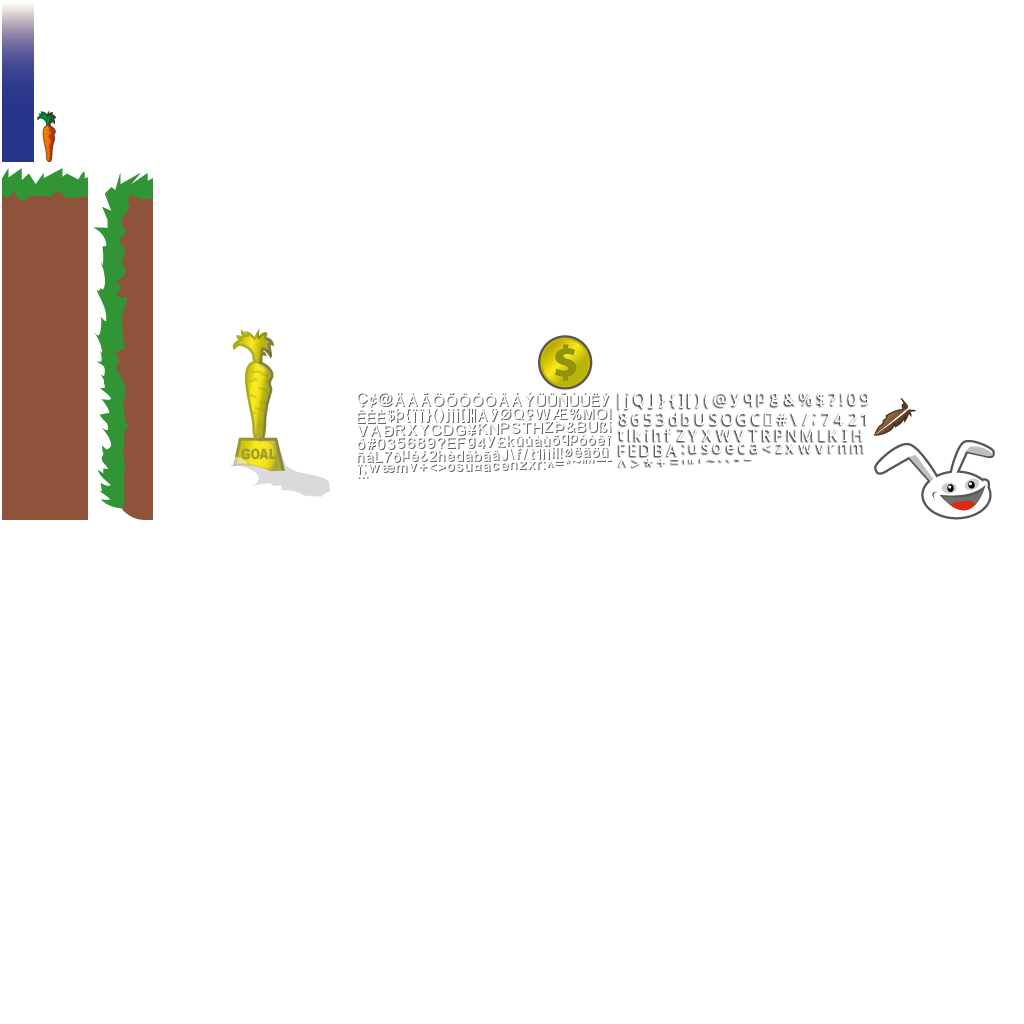
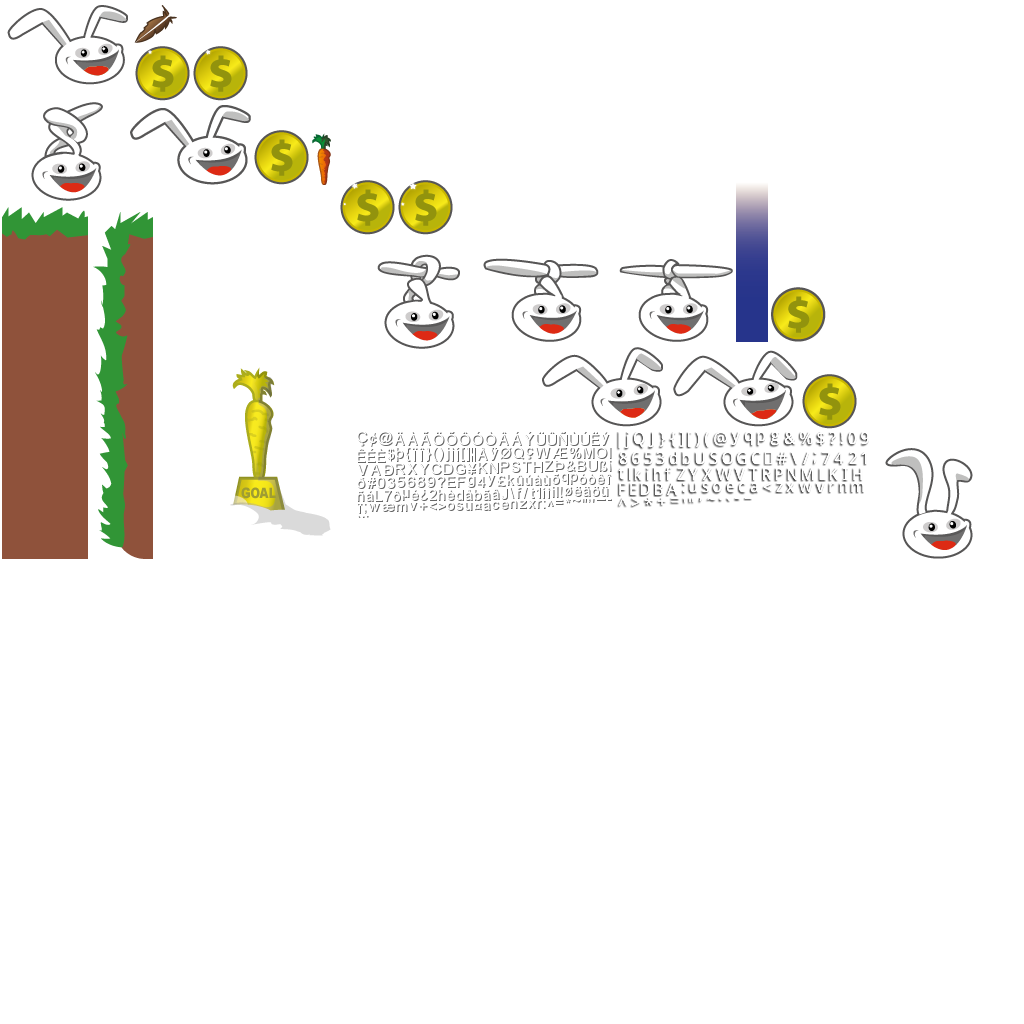
Assignment #12
Changed: Assets, AbstractGameObject, BunnyHead, GoldCoin, MenuScreen, and animation assets

Changed region(s): [[0.2188, 0.1562, 0.9688, 0.5625], [0.0, 0.0, 0.4688, 0.5625]]

diff --git a/core/src/com/rebok/gdx/game/screens/MenuScreen.java b/core/src/com/rebok/gdx/game/screens/MenuScreen.java
@@ -1,11 +1,17 @@
 package com.rebok.gdx.game.screens;
 
 import com.badlogic.gdx.Game;
+
+import static com.badlogic.gdx.scenes.scene2d.actions.Actions.*;
+
 import com.badlogic.gdx.Gdx;
 import com.badlogic.gdx.graphics.Color;
 import com.badlogic.gdx.graphics.GL20;
 import com.badlogic.gdx.graphics.g2d.TextureAtlas;
+import com.badlogic.gdx.math.Interpolation;
 import com.badlogic.gdx.scenes.scene2d.Stage;
+import com.badlogic.gdx.scenes.scene2d.Touchable;
+import com.badlogic.gdx.scenes.scene2d.actions.SequenceAction;
 import com.badlogic.gdx.scenes.scene2d.ui.Button;
 import com.badlogic.gdx.scenes.scene2d.ui.CheckBox;
 import com.badlogic.gdx.scenes.scene2d.ui.Image;
@@ -143,9 +149,8 @@ public class MenuScreen extends AbstractGameScreen {
 	 * When cancel is clicked
 	 */
 	private void onCancelClicked() {
-		btnMenuPlay.setVisible(true);
-		btnMenuOptions.setVisible(true);
-		winOptions.setVisible(false);
+		showMenuButtons(true);
+		showOptionsWindow(false, true);
 		AudioManager.instance.onSettingsUpdated();
 	}
 	
@@ -327,6 +332,45 @@ public class MenuScreen extends AbstractGameScreen {
 	@Override public void pause () { }
 	
 	/**
+	 * For animating the menu buttons
+	 * @param visible
+	 */
+	private void showMenuButtons (boolean visible) {
+		float moveDuration = 1.0f;
+		Interpolation moveEasing = Interpolation.swing;
+		float delayOptionsButton = 0.25f;
+		float moveX = 300 * (visible ? -1 : 1);
+		float moveY = 0 * (visible ? -1 : 1);
+		final Touchable touchEnabled = visible ? Touchable.enabled : Touchable.disabled;
+		btnMenuPlay.addAction(moveBy(moveX, moveY, moveDuration, moveEasing));
+		btnMenuOptions.addAction(sequence(delay(delayOptionsButton),  
+								moveBy(moveX, moveY, moveDuration, moveEasing)));
+		SequenceAction seq = sequence();
+		if (visible)
+			seq.addAction(delay(delayOptionsButton + moveDuration));
+		seq.addAction(run(new Runnable() {
+			
+		public void run () {
+			btnMenuPlay.setTouchable(touchEnabled);
+		    btnMenuOptions.setTouchable(touchEnabled);
+		}
+		}));
+		stage.addAction(seq);
+	}
+	
+	/**
+	 * For animating the options window
+	 * @param visible
+	 * @param animated
+	 */
+	private void showOptionsWindow (boolean visible,boolean animated) {
+			float alphaTo = visible ? 0.8f : 0.0f;
+			float duration = animated ? 1.0f : 0.0f;
+			Touchable touchEnabled = visible ? Touchable.enabled : Touchable.disabled;
+			winOptions.addAction(sequence(touchable(touchEnabled),alpha(alphaTo, duration)));
+	}
+	
+	/**
 	 * The background layer of our screen
 	 * @return
 	 */
@@ -347,10 +391,26 @@ public class MenuScreen extends AbstractGameScreen {
 	    // + Coins
 	    imgCoins = new Image(skinCanyonBunny, "coins");
 	    layer.addActor(imgCoins);
+	    imgCoins.setOrigin(imgCoins.getWidth() / 2, 
+	    	    imgCoins.getHeight() / 2);
+	    	  	imgCoins.addAction(sequence( 
+	    	    moveTo(135, -20), 
+	    	    scaleTo(0, 0), 
+	    	    fadeOut(0), 
+	    	    delay(2.5f),
+	    	    parallel(moveBy(0, 100, 0.5f, Interpolation.swingOut),  
+	    	    		scaleTo(1.0f, 1.0f, 0.25f, Interpolation.linear),  
+	    	    		alpha(1.0f, 0.5f))));
 	    imgCoins.setPosition(135, 80);
 	    // + Bunny
 	    imgBunny = new Image(skinCanyonBunny, "bunny");
 	    layer.addActor(imgBunny);
+	    imgBunny.addAction(sequence(
+	    moveTo(655, 510),  
+	    delay(4.0f),  
+	    moveBy(-70, -100, 0.5f, Interpolation.fade),  
+	    moveBy(-100, -50, 0.5f, Interpolation.fade),  
+	    moveBy(-150, -300, 1.0f, Interpolation.elasticIn)));
 	    imgBunny.setPosition(355, 40);
 	    return layer;
 	}
@@ -424,6 +484,8 @@ public class MenuScreen extends AbstractGameScreen {
 		// Make options window slightly transparent
 		winOptions.setColor(1, 1, 1, 0.8f);
 		// Hide options window by default
+		showOptionsWindow(false, false);
+		// Hide options window by default
 		winOptions.setVisible(false);
 		if (debugEnabled) winOptions.debug();
 		// Let TableLayout recalculate widget sizes and positions
@@ -445,8 +507,7 @@ public class MenuScreen extends AbstractGameScreen {
 	 */
 	private void onOptionsClicked () {
 		loadSettings();
-		btnMenuPlay.setVisible(false);
-		btnMenuOptions.setVisible(false);
-		winOptions.setVisible(true);
+		showMenuButtons(false);
+		showOptionsWindow(true, true);
 	}
 }

diff --git a/core/src/com/rebok/gdx/game/objects/BunnyHead.java b/core/src/com/rebok/gdx/game/objects/BunnyHead.java
@@ -1,6 +1,7 @@
 package com.rebok.gdx.game.objects;
 
 import com.badlogic.gdx.Gdx;
+import com.badlogic.gdx.graphics.g2d.Animation;
 import com.badlogic.gdx.graphics.g2d.ParticleEffect;
 import com.badlogic.gdx.graphics.g2d.SpriteBatch;
 import com.rebok.gdx.game.util.CharacterSkin;
@@ -30,6 +31,11 @@ public class BunnyHead extends AbstractGameObject {
 	public float timeLeftFeatherPowerup;
 	public ParticleEffect dustParticles = new ParticleEffect(); //bunnys stop effect
 	
+	private Animation animNormal;			//Animation stuff
+	private Animation animCopterTransform;
+	private Animation animCopterTransformBack;
+	private Animation animCopterRotate;
+	
 	public BunnyHead () {
 	    init();
 	}
@@ -39,7 +45,13 @@ public class BunnyHead extends AbstractGameObject {
 	 */
 	public void init () {
 		dimension.set(1, 1);
-		regHead = Assets.instance.bunny.head;
+		
+		animNormal = Assets.instance.bunny.animNormal;
+		animCopterTransform = Assets.instance.bunny.animCopterTransform;
+		animCopterTransformBack = Assets.instance.bunny.animCopterTransformBack;
+		animCopterRotate = Assets.instance.bunny.animCopterRotate;
+		setAnimation(animNormal);
+
 		// Center image on game object
 		origin.set(dimension.x / 2, dimension.y / 2);
 		// Bounding box for collision detection
@@ -124,14 +136,39 @@ public class BunnyHead extends AbstractGameObject {
 			viewDirection = velocity.x < 0 ? VIEW_DIRECTION.LEFT : VIEW_DIRECTION.RIGHT;
 		}
 		if (timeLeftFeatherPowerup > 0) {
+		    if (animation == animCopterTransformBack) {
+		        // Restart "Transform" animation if another feather power-up
+		        // was picked up during "TransformBack" animation. Otherwise,
+		        // the "TransformBack" animation would be stuck while the
+		        // power-up is still active.
+		        setAnimation(animCopterTransform);
+		    }
 			timeLeftFeatherPowerup -= deltaTime;
 			if (timeLeftFeatherPowerup < 0) {
 				// disable power-up
 				timeLeftFeatherPowerup = 0;
 				setFeatherPowerup(false);
+				setAnimation(animCopterTransformBack);
 			}
 		}
 		dustParticles.update(deltaTime);
+		// Change animation state according to feather power-up
+		if (hasFeatherPowerup) {
+			if (animation == animNormal) {
+				setAnimation(animCopterTransform);
+			} else if (animation == animCopterTransform) {
+				if (animation.isAnimationFinished(stateTime))
+					setAnimation(animCopterRotate);
+			}
+		} else {
+			if (animation == animCopterRotate) {
+				if (animation.isAnimationFinished(stateTime))
+					setAnimation(animCopterTransformBack);
+			} else if (animation == animCopterTransformBack) {
+				if (animation.isAnimationFinished(stateTime))
+					setAnimation(animNormal);
+			}
+		}
 	}
 	
 	/**
@@ -187,14 +224,21 @@ public class BunnyHead extends AbstractGameObject {
 		// Apply Skin Color
 		batch.setColor(CharacterSkin.values()[GamePreferences.instance.charSkin].getColor());
 		  
+		float dimCorrectionX = 0;
+		float dimCorrectionY = 0;
+		if (animation != animNormal) {
+		  dimCorrectionX = 0.05f;
+		  dimCorrectionY = 0.2f;
+		}
 		// Set special color when game object has a feather power-up
 		if (hasFeatherPowerup) {
 			batch.setColor(1.0f, 0.8f, 0.0f, 1.0f);
 		}
 		// Draw image
-		reg = regHead;
+		reg = animation.getKeyFrame(stateTime, true);
 		batch.draw(reg.getTexture(), position.x, position.y, origin.x,  
-					origin.y, dimension.x, dimension.y, scale.x, scale.y, rotation,  
+					origin.y, dimension.x + dimCorrectionX,  
+					dimension.y + dimCorrectionY, scale.x, scale.y, rotation,  
 					reg.getRegionX(), reg.getRegionY(), reg.getRegionWidth(),  
 					reg.getRegionHeight(), viewDirection == VIEW_DIRECTION.LEFT, false);
 		// Reset color to white

diff --git a/core/src/com/rebok/gdx/game/Assets.java b/core/src/com/rebok/gdx/game/Assets.java
@@ -6,8 +6,10 @@ import com.badlogic.gdx.assets.AssetErrorListener;
 import com.badlogic.gdx.assets.AssetManager;
 import com.badlogic.gdx.audio.Music;
 import com.badlogic.gdx.audio.Sound;
+import com.badlogic.gdx.graphics.g2d.Animation;
 import com.badlogic.gdx.graphics.g2d.BitmapFont;
 import com.badlogic.gdx.graphics.g2d.TextureAtlas;
+import com.badlogic.gdx.utils.Array;
 import com.badlogic.gdx.utils.Disposable;
 import com.rebok.gdx.game.util.Constants;
 import com.badlogic.gdx.graphics.g2d.TextureAtlas.AtlasRegion;
@@ -115,6 +117,10 @@ public class Assets implements Disposable, AssetErrorListener {
 	 */
 	public class AssetBunny {
 	    public final AtlasRegion head; //head asset
+	    public final Animation animNormal; 			//animation stuff
+	    public final Animation animCopterTransform;
+	    public final Animation animCopterTransformBack;
+	    public final Animation animCopterRotate;
 	    
 	    /**
 	     * Constructor for the bunny head
@@ -122,6 +128,22 @@ public class Assets implements Disposable, AssetErrorListener {
 	     */
 	    public AssetBunny (TextureAtlas atlas) {
 	        head = atlas.findRegion("bunny_head");
+	        Array<AtlasRegion> regions = null;
+	        AtlasRegion region = null;
+	        // Animation: Bunny Normal
+	        regions = atlas.findRegions("anim_bunny_normal");
+	        animNormal = new Animation(1.0f / 10.0f, regions, Animation.PlayMode.LOOP_PINGPONG);
+	        // Animation: Bunny Copter - knot ears
+	        regions = atlas.findRegions("anim_bunny_copter");
+	        animCopterTransform = new Animation(1.0f / 10.0f, regions);
+	        // Animation: Bunny Copter - unknot ears
+	        regions = atlas.findRegions("anim_bunny_copter");
+	        animCopterTransformBack = new Animation(1.0f / 10.0f, regions, Animation.PlayMode.REVERSED);
+	        // Animation: Bunny Copter - rotate ears
+	        regions = new Array<AtlasRegion>();
+	        regions.add(atlas.findRegion("anim_bunny_copter", 4));
+	        regions.add(atlas.findRegion("anim_bunny_copter", 5));
+	        animCopterRotate = new Animation(1.0f / 15.0f, regions);
 	    }
 	}
 	
@@ -151,6 +173,7 @@ public class Assets implements Disposable, AssetErrorListener {
 	 */
 	public class AssetGoldCoin {
 	    public final AtlasRegion goldCoin; //gold coin
+	    public final Animation animGoldCoin; //for animating the gold coin
 	    
 	    /**
 	     * Constructor for the coin
@@ -158,6 +181,12 @@ public class Assets implements Disposable, AssetErrorListener {
 	     */
 	    public AssetGoldCoin (TextureAtlas atlas) {
 	        goldCoin = atlas.findRegion("item_gold_coin");
+	        // Animation: Gold Coin
+	        Array<AtlasRegion> regions = atlas.findRegions("anim_gold_coin");
+	        AtlasRegion region = regions.first();
+	        for (int i = 0; i < 10; i++)
+	        	regions.insert(0, region);
+	        animGoldCoin = new Animation(1.0f / 20.0f, regions, Animation.PlayMode.LOOP_PINGPONG);
 	    }
 	}
 	

diff --git a/core/src/com/rebok/gdx/game/objects/GoldCoin.java b/core/src/com/rebok/gdx/game/objects/GoldCoin.java
@@ -2,6 +2,7 @@ package com.rebok.gdx.game.objects;
 
 import com.badlogic.gdx.graphics.g2d.SpriteBatch;
 import com.badlogic.gdx.graphics.g2d.TextureRegion;
+import com.badlogic.gdx.math.MathUtils;
 import com.rebok.gdx.game.Assets;
 
 /**
@@ -22,7 +23,10 @@ public class GoldCoin extends AbstractGameObject {
 	 */
 	private void init () {
 	    dimension.set(0.5f, 0.5f);
-	    regGoldCoin = Assets.instance.goldCoin.goldCoin;
+	    
+	    setAnimation(Assets.instance.goldCoin.animGoldCoin);
+	    stateTime = MathUtils.random(0.0f, 1.0f);
+	    
 	    // Set bounding box for collision detection
 	    bounds.set(0, 0, dimension.x, dimension.y);
 	    collected = false;
@@ -33,13 +37,19 @@ public class GoldCoin extends AbstractGameObject {
 	 * @param batch
 	 */
 	public void render (SpriteBatch batch) {
-	    if (collected) return;
-	    TextureRegion reg = null;
-	    reg = regGoldCoin;
-	    batch.draw(reg.getTexture(), position.x, position.y,  
-	    			origin.x, origin.y, dimension.x, dimension.y, scale.x, scale.y,  
-	    			rotation, reg.getRegionX(), reg.getRegionY(),  
-	    			reg.getRegionWidth(), reg.getRegionHeight(), false, false);
+		if (collected) return;
+		
+		TextureRegion reg = null;
+		reg = animation.getKeyFrame(stateTime, true);
+		batch.draw(reg.getTexture(),  
+					position.x, position.y,  
+					origin.x, origin.y,  
+					dimension.x, dimension.y,  
+					scale.x, scale.y,  
+					rotation,  
+					reg.getRegionX(), reg.getRegionY(),  
+					reg.getRegionWidth(), reg.getRegionHeight(),  
+					false, false);
 	}
 	
 	/**

diff --git a/core/src/com/rebok/gdx/game/objects/AbstractGameObject.java b/core/src/com/rebok/gdx/game/objects/AbstractGameObject.java
@@ -1,5 +1,6 @@
 package com.rebok.gdx.game.objects;
 
+import com.badlogic.gdx.graphics.g2d.Animation;
 import com.badlogic.gdx.graphics.g2d.SpriteBatch;
 import com.badlogic.gdx.math.MathUtils;
 import com.badlogic.gdx.math.Rectangle;
@@ -26,6 +27,9 @@ public abstract class AbstractGameObject {
     
     public Body body; //for physics
     
+    public float stateTime; //for animation
+    public Animation animation;
+    
     //Constructor
     public AbstractGameObject () {
         position = new Vector2();
@@ -41,10 +45,20 @@ public abstract class AbstractGameObject {
     }
     
     /**
+     * Set the animation
+     * @param animation
+     */
+    public void setAnimation (Animation animation) {
+    	  this.animation = animation;
+    	  stateTime = 0;
+    }
+    
+    /**
      * Update method for objects, called by our world controller
      * @param deltaTime
      */
     public void update (float deltaTime) {
+    	stateTime += deltaTime;
     	if (body == null) {
     		updateMotionX(deltaTime);
     		updateMotionY(deltaTime);
